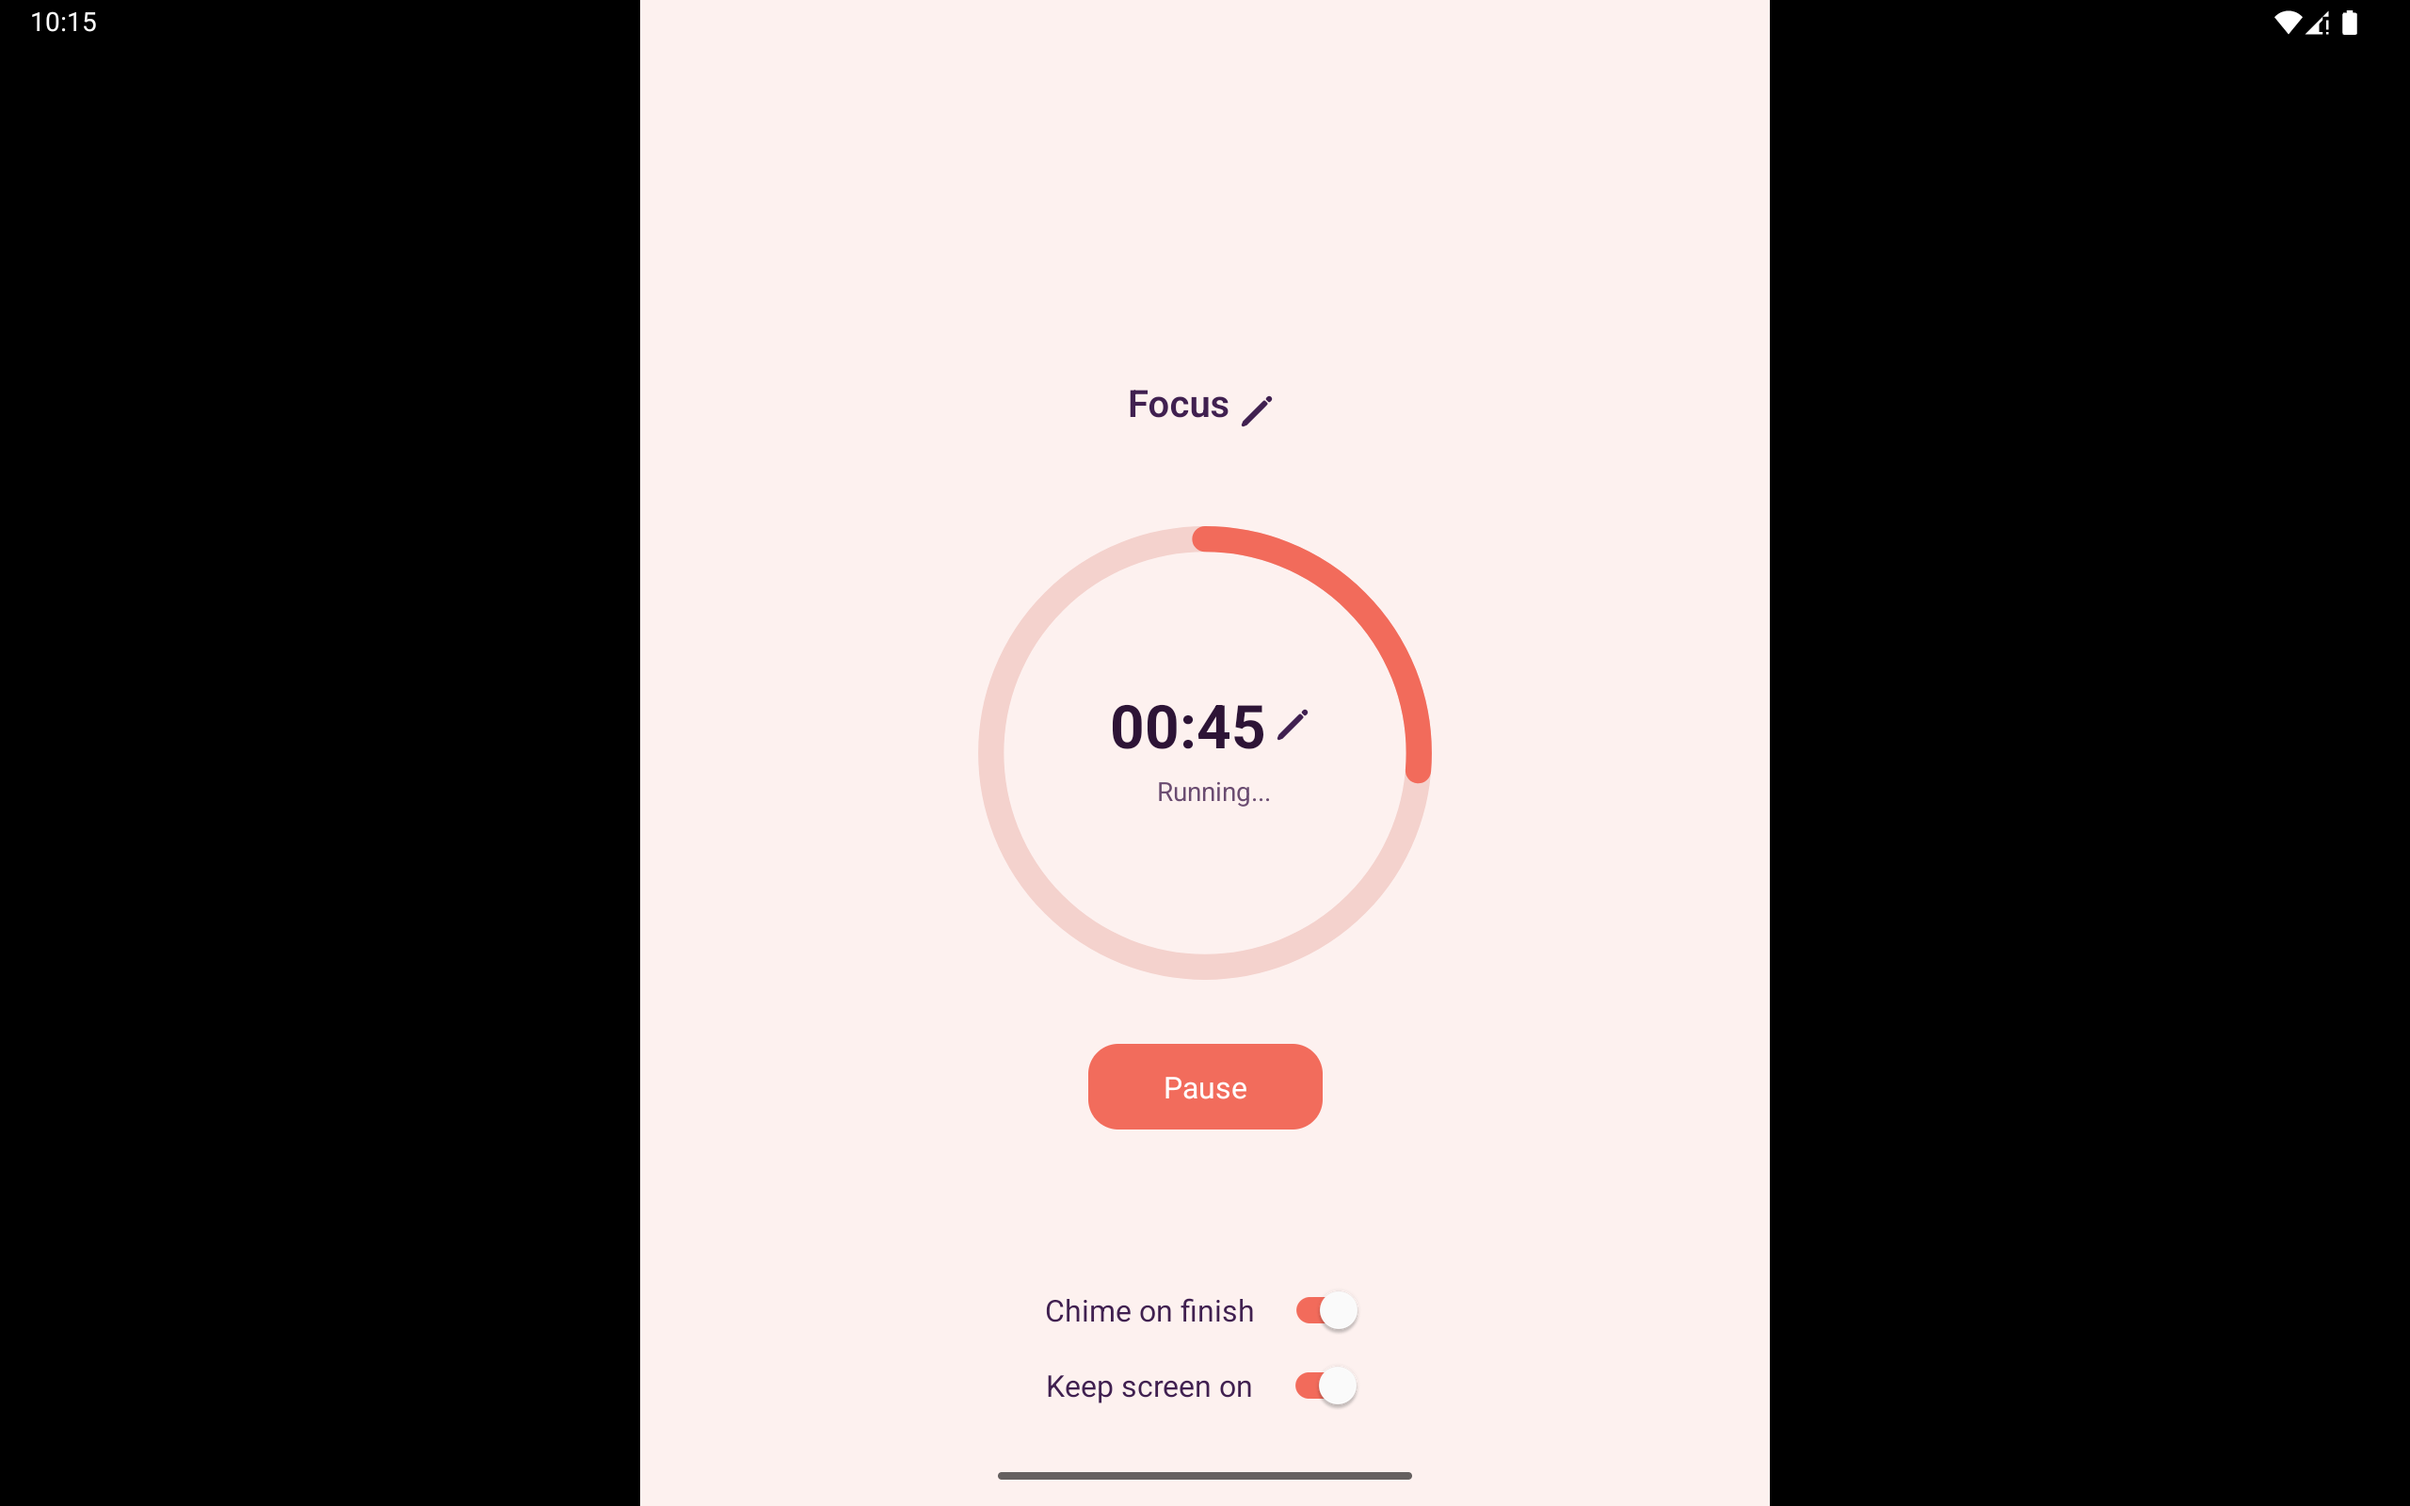
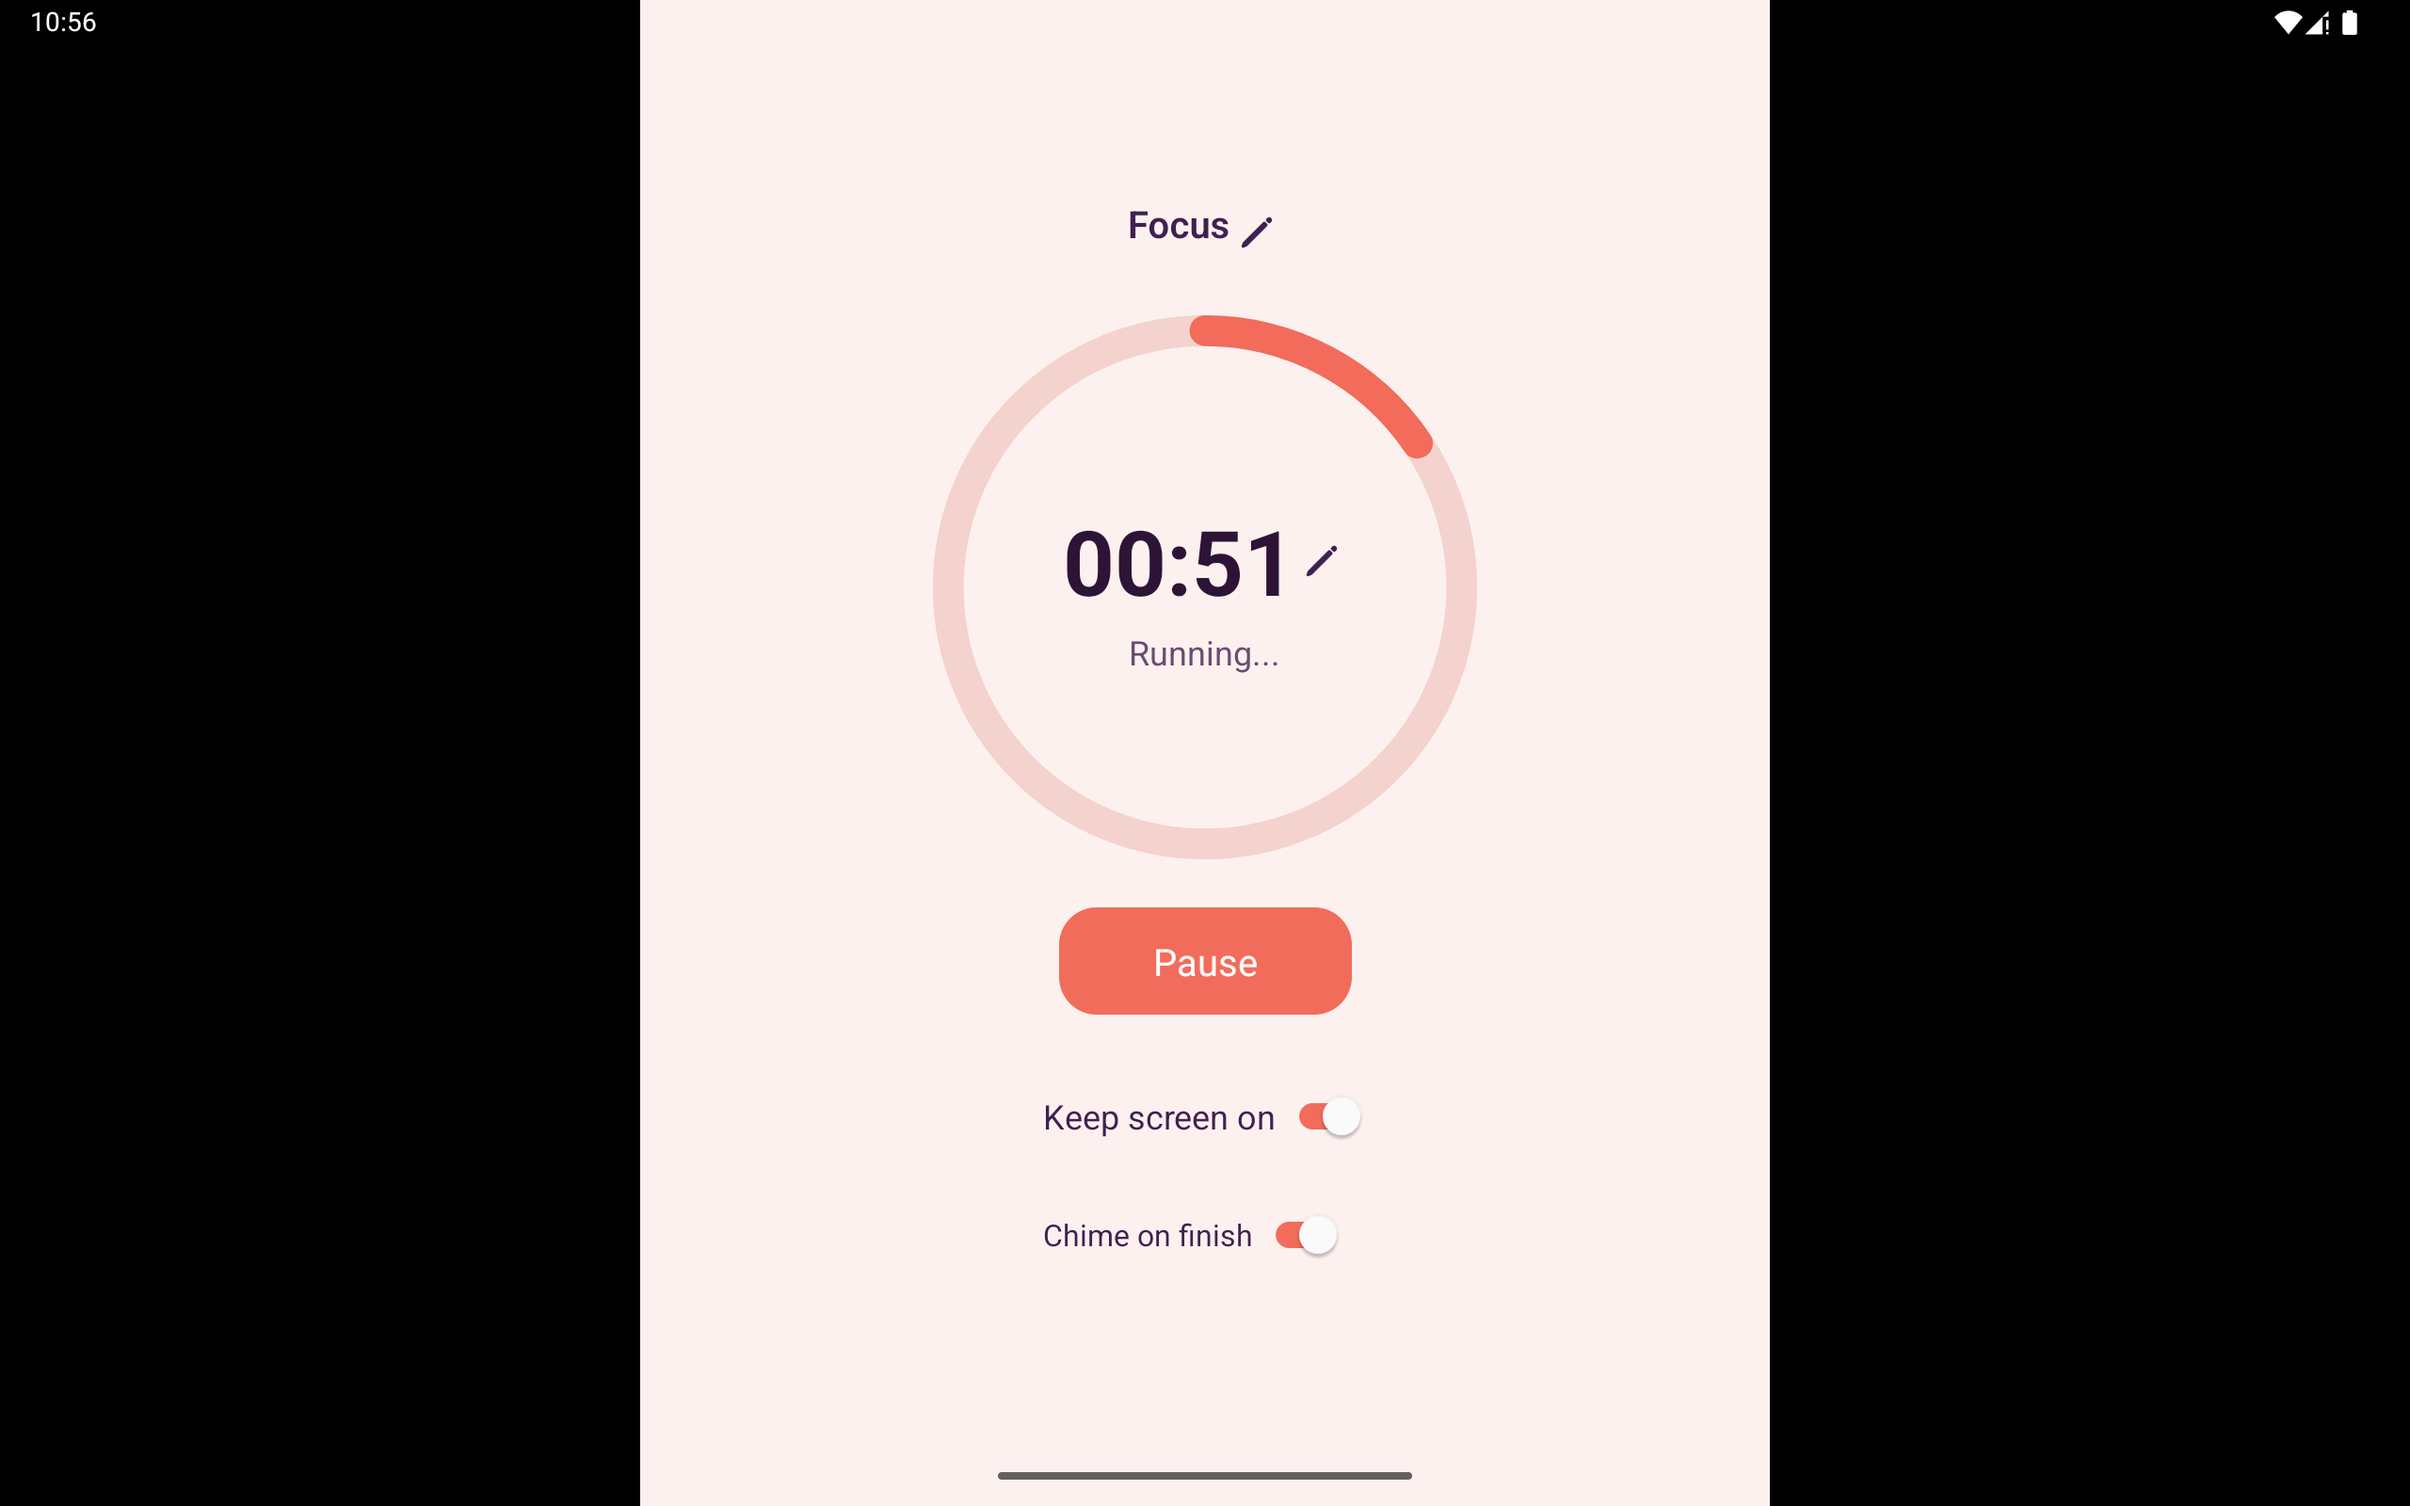
Landscape support

diff --git a/app/(main)/components/CircularTimer.tsx b/app/(main)/components/CircularTimer.tsx
@@ -395,60 +395,61 @@ const CircularTimer = () => {
           </View>
 
           <View style={[styles.svgContainer, isLandscape && styles.svgContainerLandscape]}>
-            <Svg height={timerSize} width={timerSize} viewBox="0 0 220 220">
-              <Circle
-                cx="110"
-                cy="110"
-                r="100"
-                stroke="#f4d2cd"
-                strokeWidth="12"
-                fill="none"
-              />
-              <AnimatedCircle
-                cx="110"
-                cy="110"
-                r="100"
-                stroke={strokeColor as any}
-                strokeWidth="12"
-                strokeDasharray={2 * Math.PI * 100}
-                strokeDashoffset={strokeDashoffset}
-                strokeLinecap="round"
-                fill="none"
-                rotation="-90"
-                origin="110, 110"
-              />
-            </Svg>
+            <View style={styles.timerWrapper}>
+              <Svg height={timerSize} width={timerSize} viewBox="0 0 220 220">
+                <Circle
+                  cx="110"
+                  cy="110"
+                  r="100"
+                  stroke="#f4d2cd"
+                  strokeWidth="12"
+                  fill="none"
+                />
+                <AnimatedCircle
+                  cx="110"
+                  cy="110"
+                  r="100"
+                  stroke={strokeColor as any}
+                  strokeWidth="12"
+                  strokeDasharray={2 * Math.PI * 100}
+                  strokeDashoffset={strokeDashoffset}
+                  strokeLinecap="round"
+                  fill="none"
+                  rotation="-90"
+                  origin="110, 110"
+                />
+              </Svg>
+              <View style={styles.timerTextOverlay}>
+                <View style={styles.timerTextRow}>
+                  <Text style={[styles.timeText, isTablet && styles.timeTextTablet]}>{formatTime(secondsLeft)}</Text>
+                  <TouchableOpacity 
+                    onPress={() => {
+                      setWasRunningBeforeEdit(isRunning);
+                      if (isRunning) {
+                        pauseTimer();
+                      }
+                      setIsEditingDuration(true);
+                    }} 
+                    style={styles.iconButton}
+                  >
+                    <Ionicons name="pencil" size={20} color="#402050" />
+                  </TouchableOpacity>
+                </View>
+                { 
+                  isRunning && <Text style={[styles.runningText, isTablet && styles.runningTextTablet]}>Running...</Text>
+                }
+                {
+                  !isRunning && secondsLeft > 0 && <Text style={[styles.runningText, isTablet && styles.runningTextTablet]}>Paused</Text>
+                }
+                {
+                  !isRunning && secondsLeft === 0 && <Text style={[styles.runningText, isTablet && styles.runningTextTablet]}>Done! 🎉</Text>
+                }
+              </View>
+            </View>
           </View>
         </View>
 
         <View style={[styles.rightSection, isLandscape && styles.rightSectionLandscape]}>
-          <View style={[styles.timerTextContainer, isLandscape && styles.timerTextContainerLandscape]}>
-            <View style={styles.timerTextRow}>
-              <Text style={[styles.timeText, isTablet && styles.timeTextTablet]}>{formatTime(secondsLeft)}</Text>
-              <TouchableOpacity 
-                onPress={() => {
-                  setWasRunningBeforeEdit(isRunning);
-                  if (isRunning) {
-                    pauseTimer();
-                  }
-                  setIsEditingDuration(true);
-                }} 
-                style={styles.iconButton}
-              >
-                <Ionicons name="pencil" size={20} color="#402050" />
-              </TouchableOpacity>
-            </View>
-            { 
-              isRunning && <Text style={[styles.runningText, isTablet && styles.runningTextTablet]}>Running...</Text>
-            }
-            {
-              !isRunning && secondsLeft > 0 && <Text style={[styles.runningText, isTablet && styles.runningTextTablet]}>Paused</Text>
-            }
-            {
-              !isRunning && secondsLeft === 0 && <Text style={[styles.runningText, isTablet && styles.runningTextTablet]}>Done! 🎉</Text>
-            }
-          </View>
-
           <View style={[styles.buttonContainer, isLandscape && styles.buttonContainerLandscape]}>
             {
               !isRunning && secondsLeft === totalSeconds && (
@@ -467,7 +468,7 @@ const CircularTimer = () => {
             {
               isRunning && (
                 <TouchableOpacity style={[styles.button, isTablet && styles.buttonTablet]} onPress={pauseTimer}>
-                  <Text style={[styles.buttonText, isTablet && styles.buttonTextTablet]}>Pause</Text>
+                  <Text style={[styles.buttonText]}>Pause</Text>
                 </TouchableOpacity>
               )
             }
@@ -491,7 +492,7 @@ const CircularTimer = () => {
               />
             </View>
             <View style={[styles.settingRow]}>
-              <Text style={[styles.keepAwakeText]}>Chime on finish</Text>
+              <Text style={[styles.keepAwakeText, isTablet && styles.keepAwakeTextTablet]}>Chime on finish</Text>
               <Switch
                 value={alarmSound}
                 onValueChange={setAlarmSound}
@@ -691,13 +692,19 @@ const styles = StyleSheet.create({
   svgContainerLandscape: {
     marginTop: 60,
   },
-  timerTextContainer: {
+  timerWrapper: {
+    position: 'relative',
     alignItems: 'center',
     justifyContent: 'center',
-    marginBottom: 30,
   },
-  timerTextContainerLandscape: {
-    alignItems: 'flex-start',
+  timerTextOverlay: {
+    position: 'absolute',
+    top: 0,
+    left: 0,
+    right: 0,
+    bottom: 0,
+    alignItems: 'center',
+    justifyContent: 'center',
   },
   timerTextRow: {
     flexDirection: 'row',
@@ -708,6 +715,7 @@ const styles = StyleSheet.create({
     fontSize: 32,
     fontWeight: 'bold',
     color: '#2d1436',
+    textAlign: 'center',
   },
   timeTextTablet: {
     fontSize: 48,
@@ -716,6 +724,7 @@ const styles = StyleSheet.create({
     fontSize: 14,
     color: '#6a4c71',
     marginTop: 4,
+    textAlign: 'center',
   },
   runningTextTablet: {
     fontSize: 18,
@@ -729,6 +738,8 @@ const styles = StyleSheet.create({
   },
   buttonContainerLandscape: {
     justifyContent: 'flex-start',
+    marginLeft: 0,
+    marginRight: 30,
   },
   button: {
     backgroundColor: '#f26b5b',
@@ -737,7 +748,7 @@ const styles = StyleSheet.create({
     borderRadius: 16,
   },
   buttonTablet: {
-    paddingHorizontal: 50,
+    paddingHorizontal: 20,
     paddingVertical: 15,
     borderRadius: 20,
   },
@@ -760,6 +771,7 @@ const styles = StyleSheet.create({
   },
   settingsContainerLandscape: {
     alignItems: 'flex-start',
+    marginRight: 20,
   },
   settingRow: {
     flexDirection: 'row',
